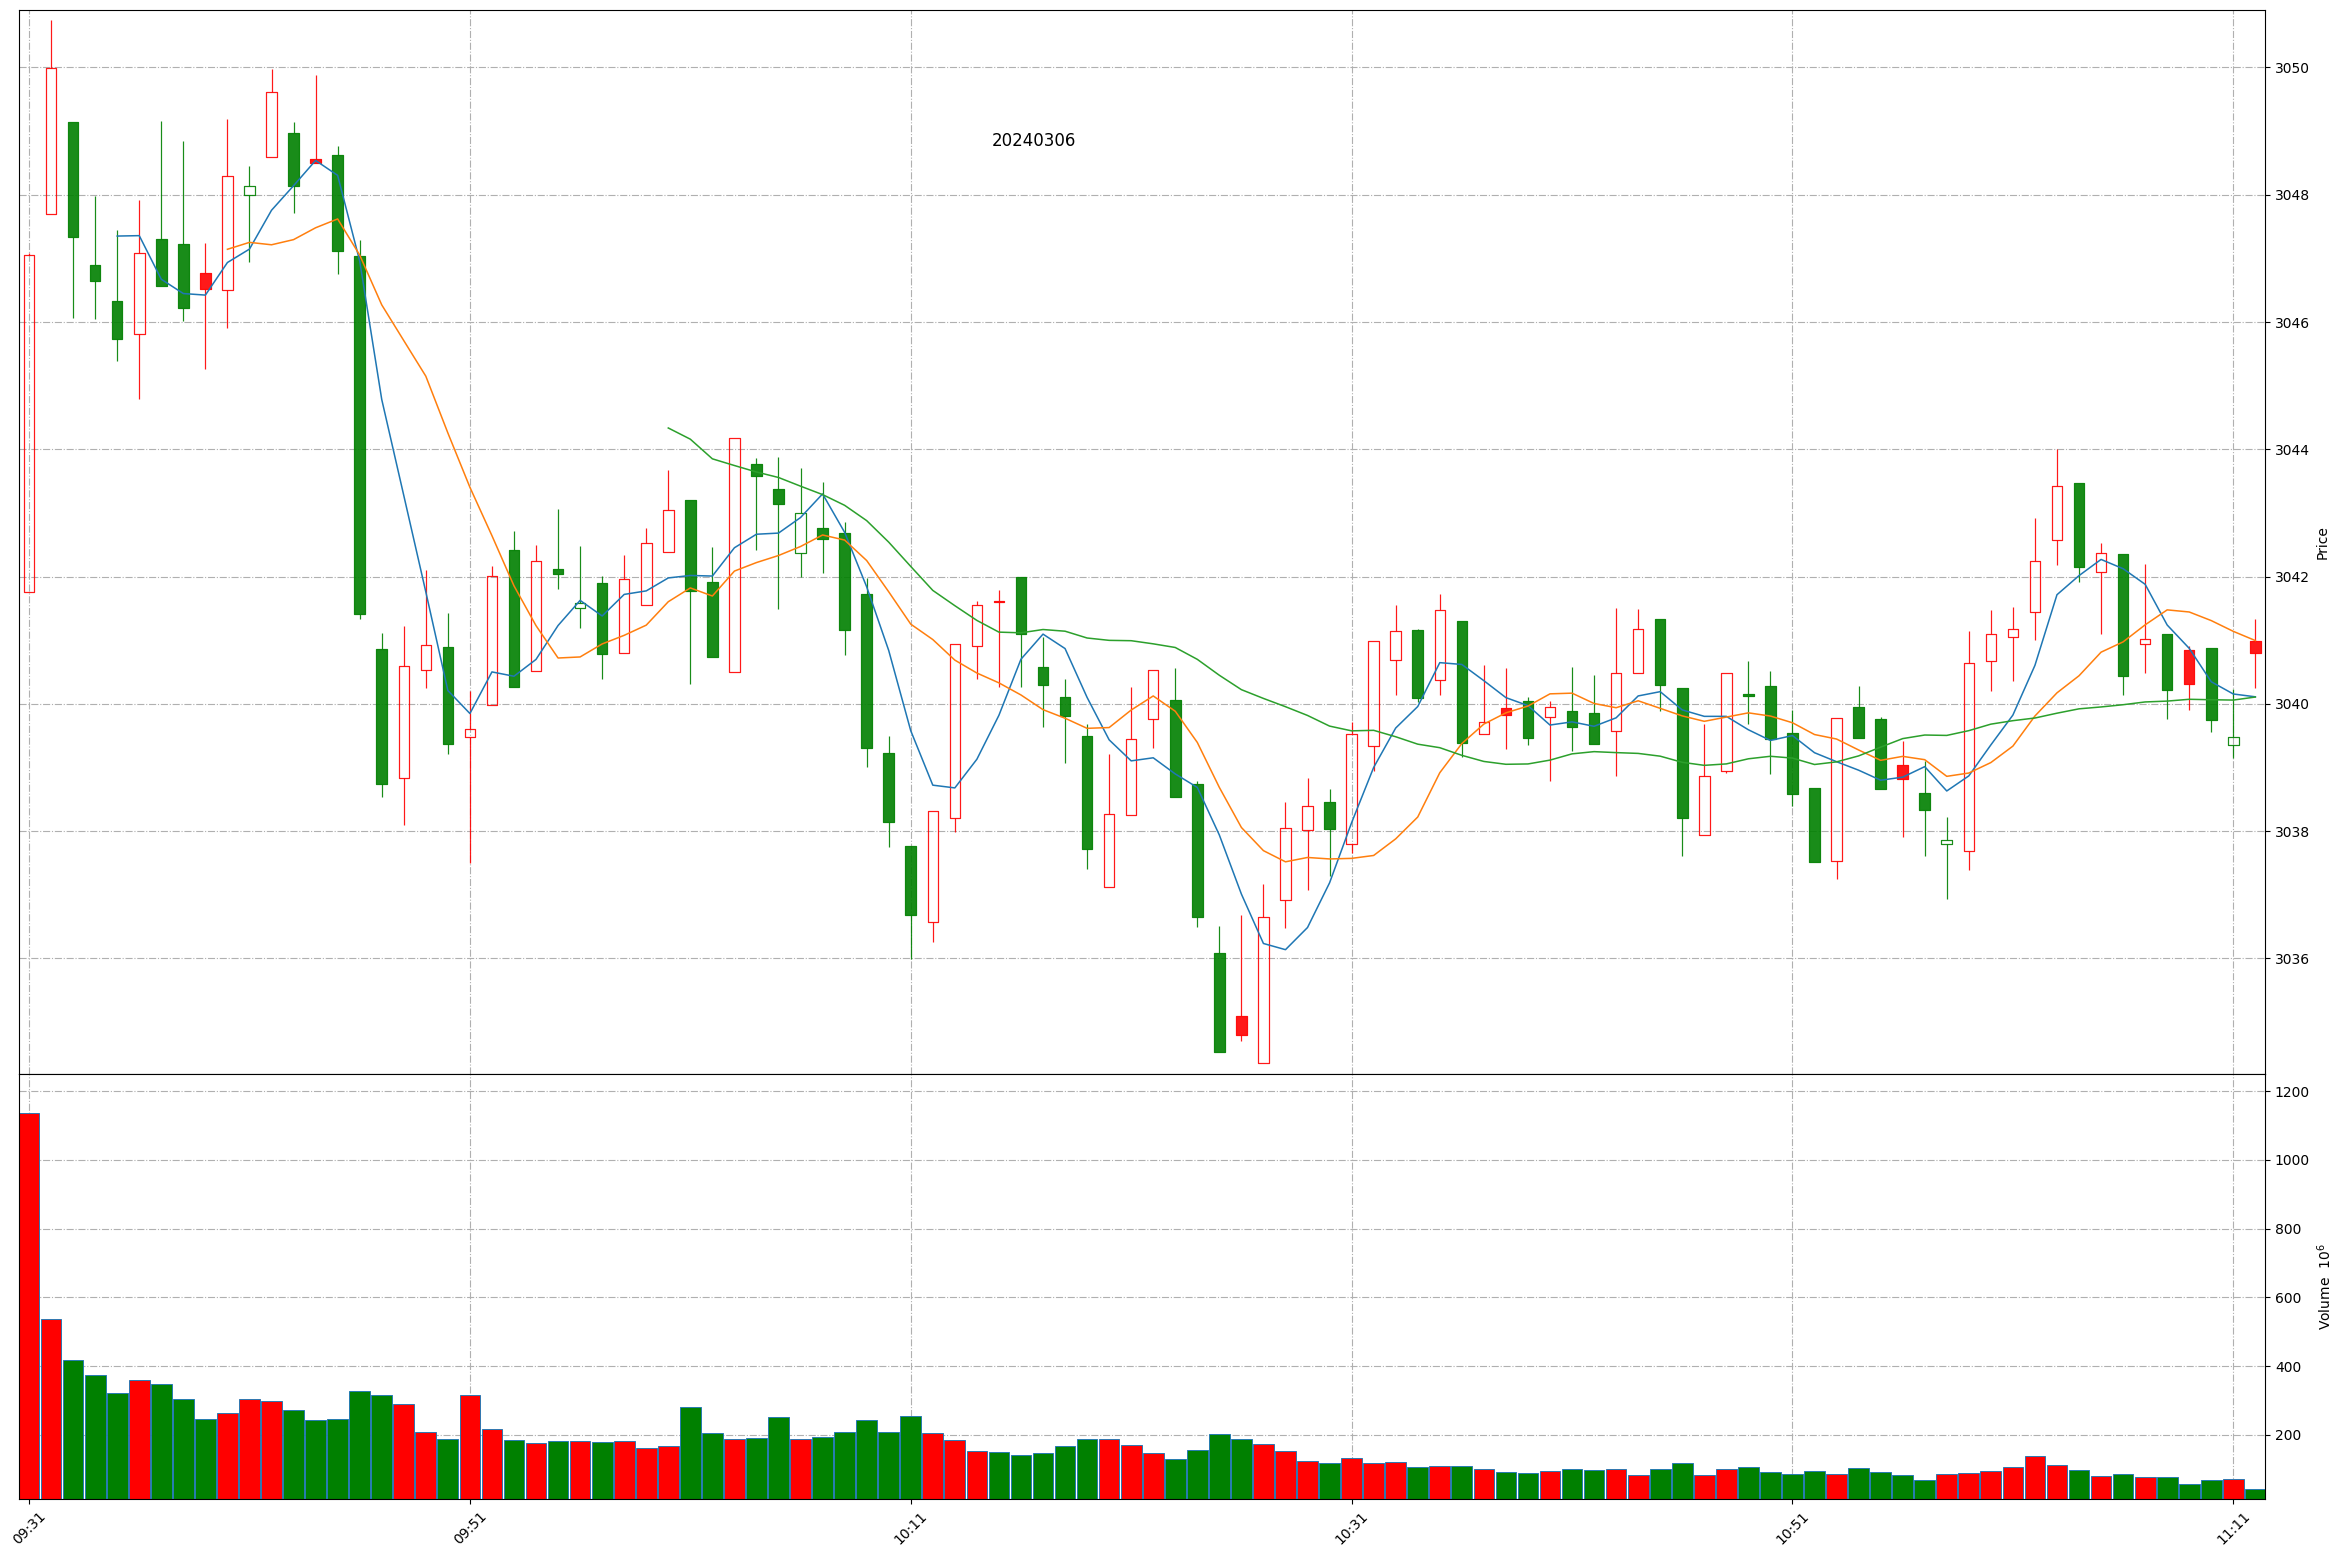
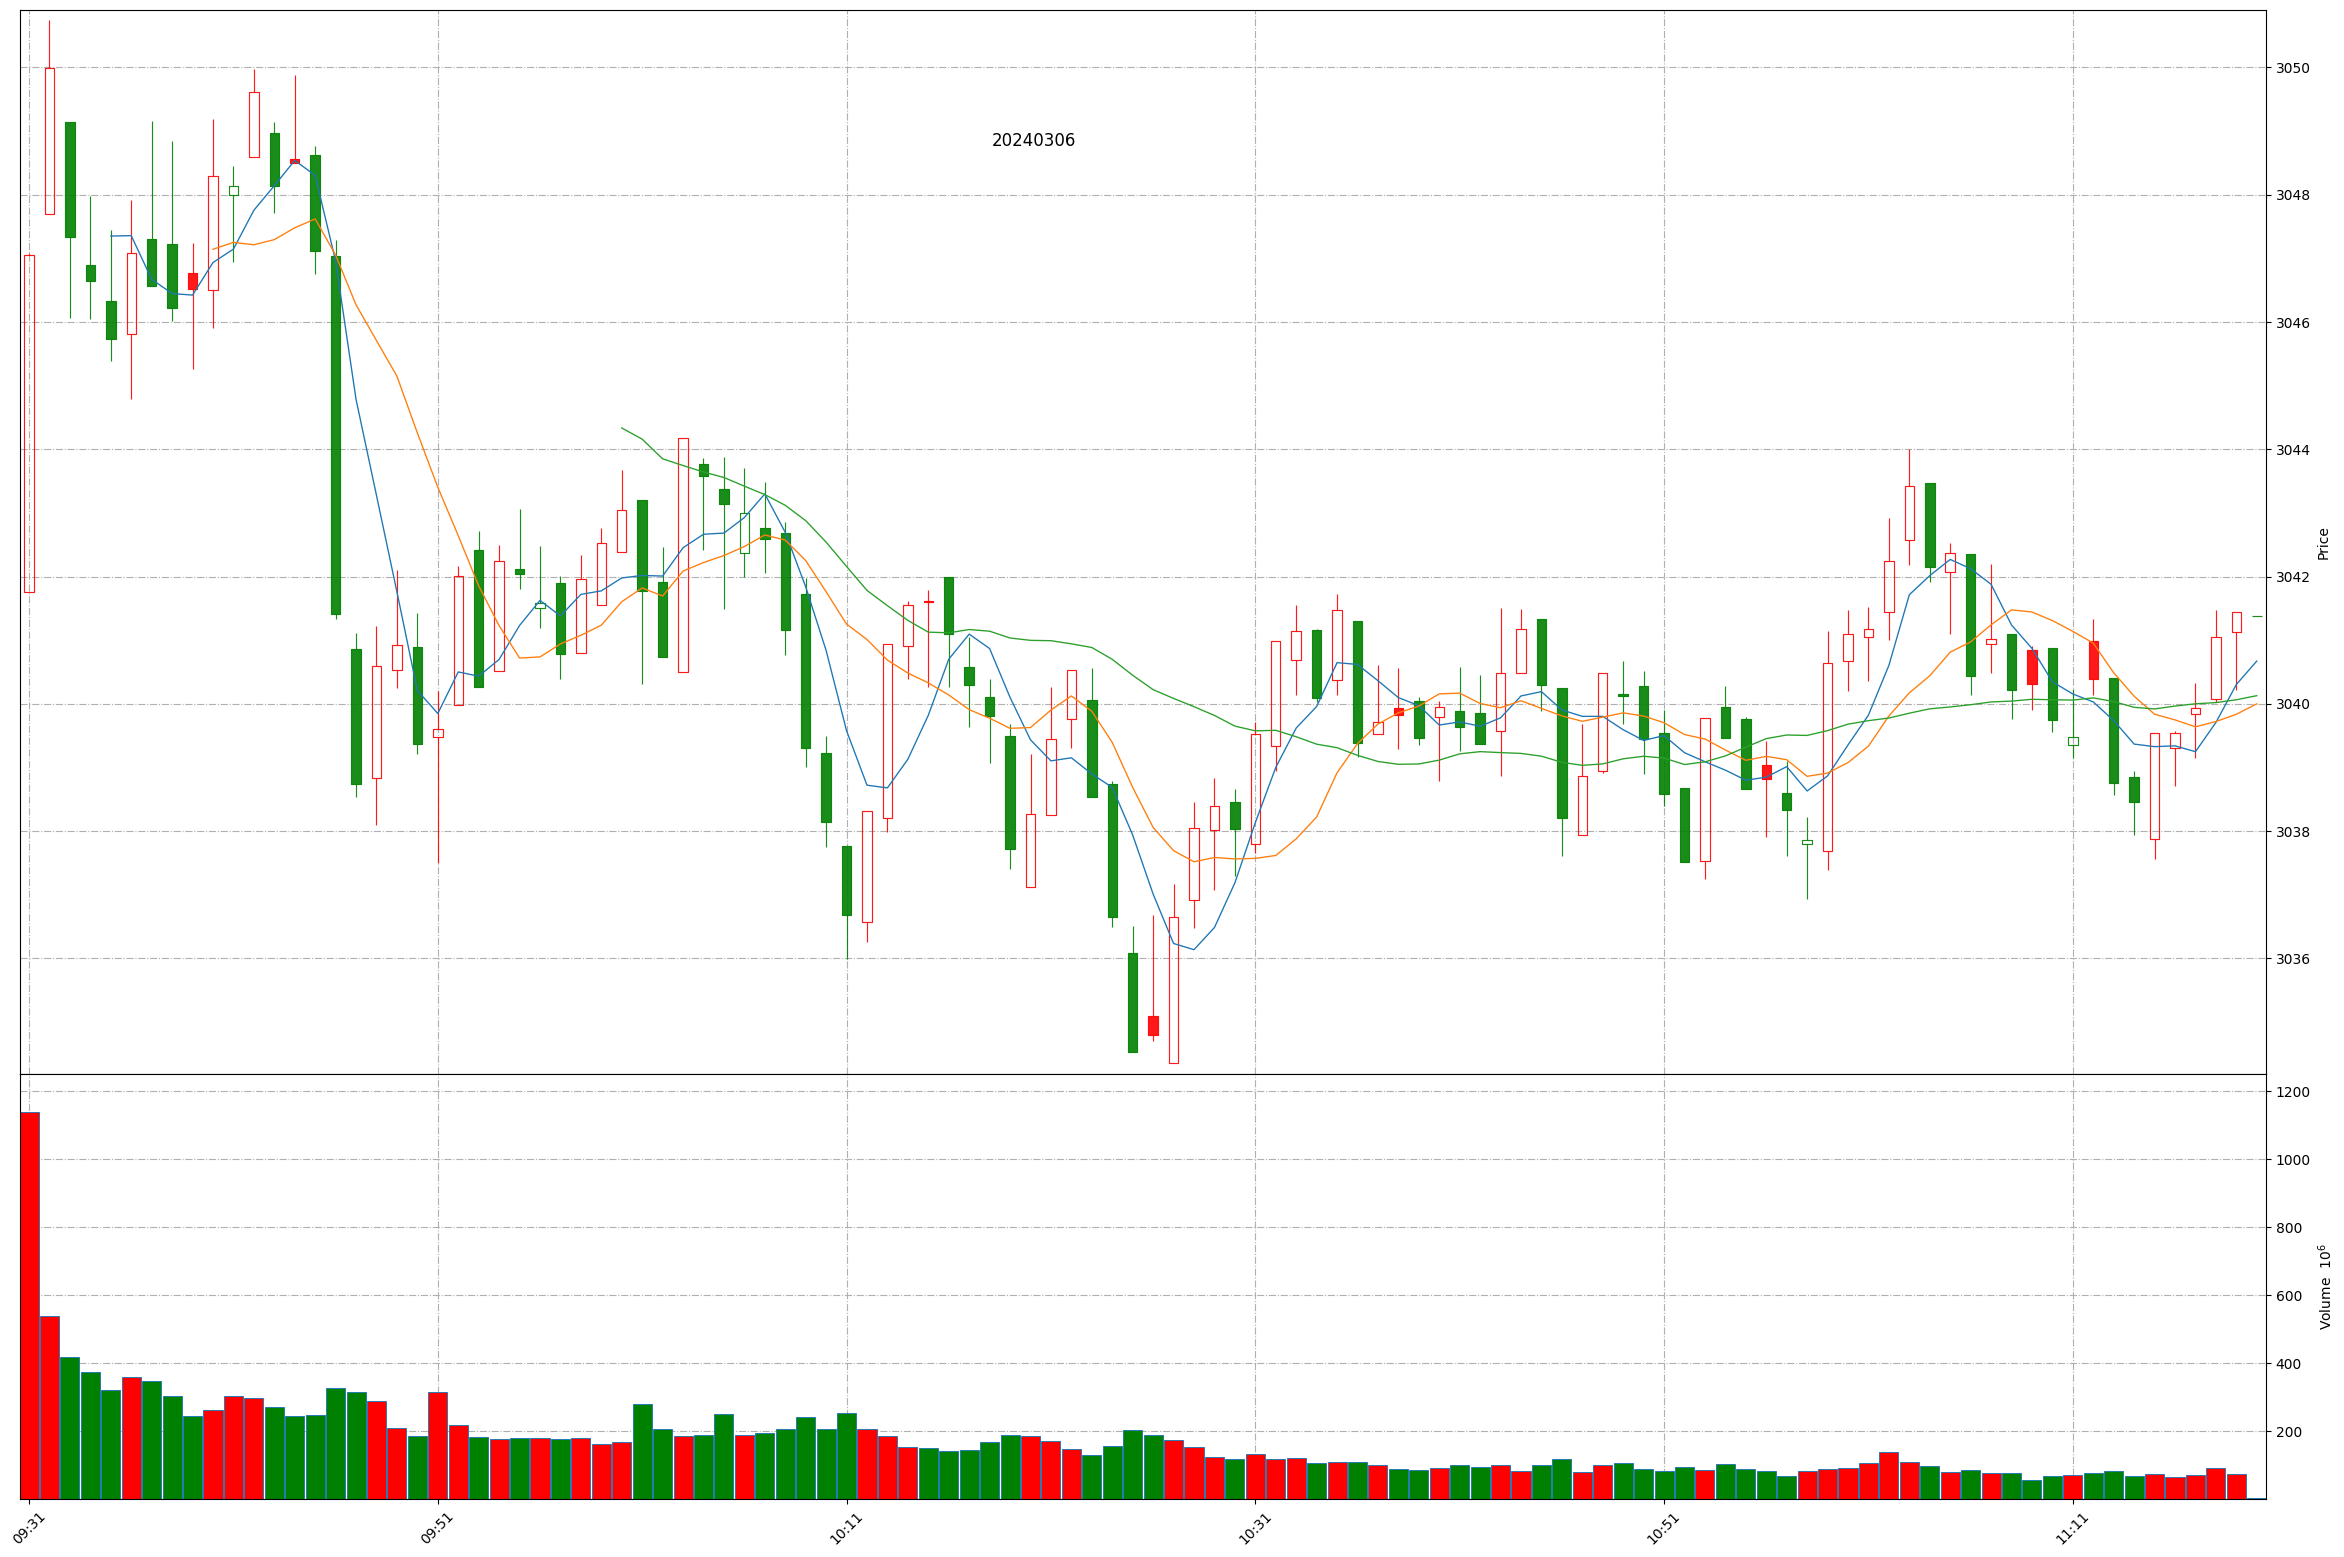
Github action update at 2024-03-06 11:19:16.

Changed region(s): [[0.0, 0.0617, 0.9654, 0.6782], [0.0, 0.8632, 0.9654, 0.9865], [0.9654, 0.8015, 0.9966, 0.8632]]

diff --git a/README.md b/README.md
@@ -1,11 +1,11 @@
 
 # Daily-A-share-market-quotes 每日 A 股指数（5min 更新）- 20240306
 
-### 上证指数 20240306 11:11
+### 上证指数 20240306 11:19
 ![](./fig/2024/3/20240306-sh000001.png)
 
-### 深证成指 20240306 11:11
+### 深证成指 20240306 11:19
 ![](./fig/2024/3/20240306-sz399001.png)
 
-### 北证50 20240306 11:11
+### 北证50 20240306 11:19
 ![](./fig/2024/3/20240306-bj899050.png)
